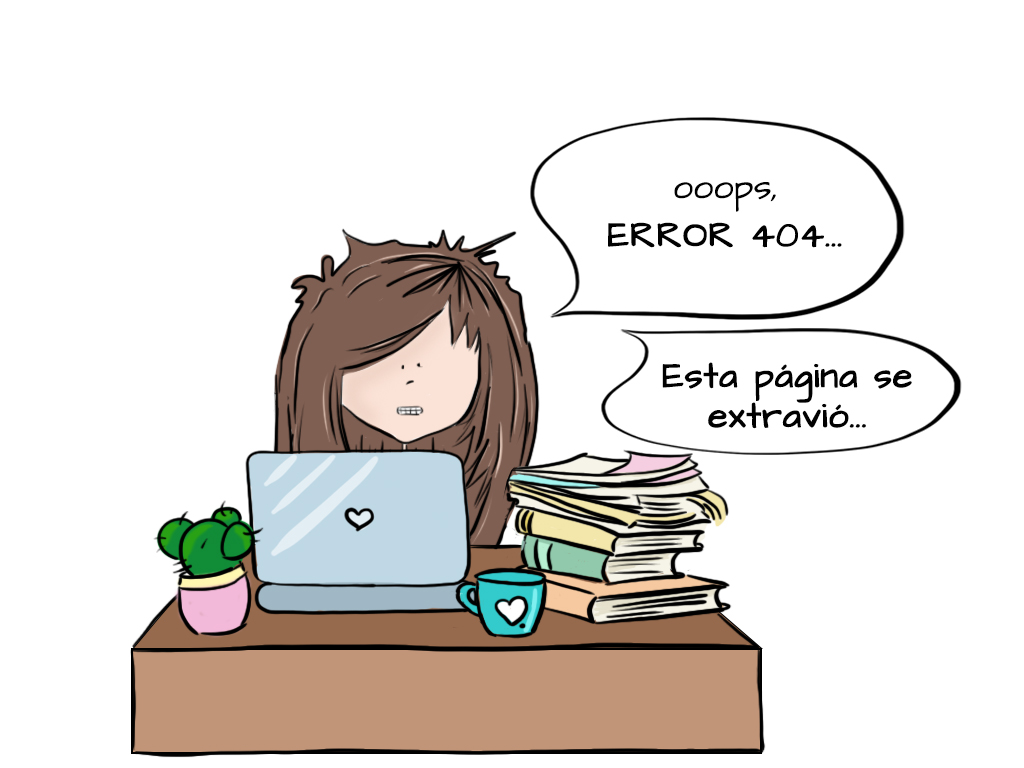
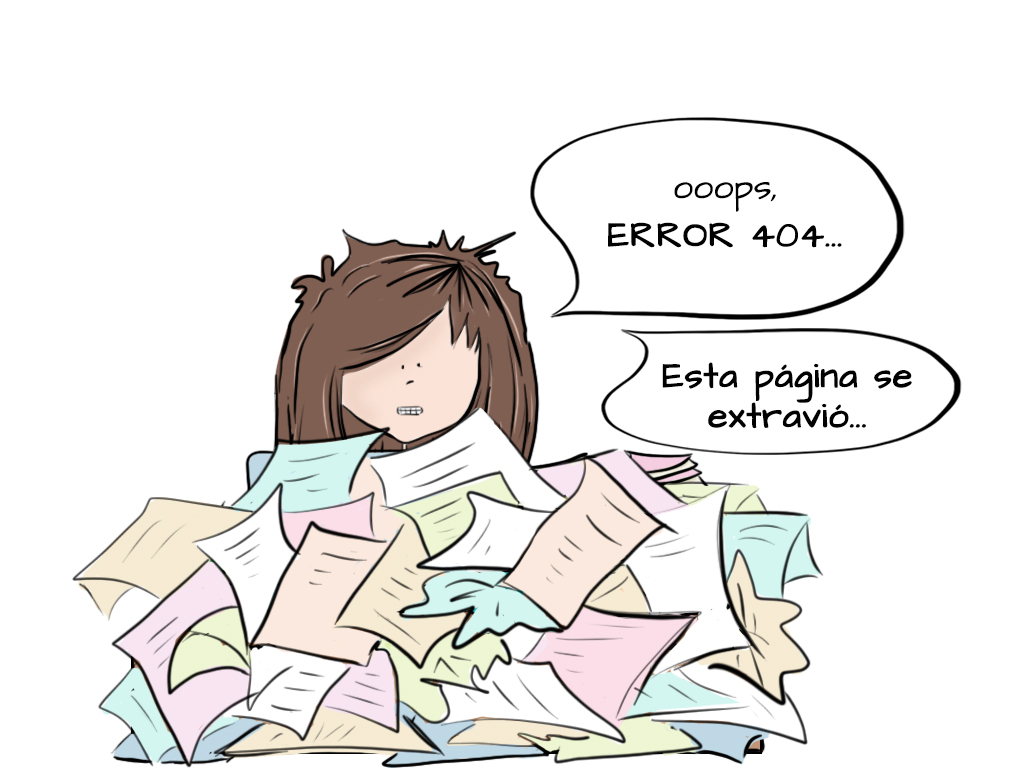
cambios en page errores

Changed region(s): [[0.0625, 0.5312, 0.8125, 1.0]]

diff --git a/page/error504.html b/page/error504.html
@@ -50,31 +50,14 @@
     <header id="errorPage">
         <div class="errorPage">
             <span>  <img class="error404" src="../img/mainIndex/error504.webp" alt="Ilustración donde se ve una chica con pelo largo marrón detras de un escritorio durmiendo. Se ven Zetas flotando en el aire y un globo de texto que dice error 504 "></span>
-            <a href="contacto.html" class="aError">Lamento que se este tardando.<br>Si piensas en dormir una siesta, buena idea!<br>Pero también puedes probar refrescar la página. <br> Contactame si el problema persiste.</br><br><span>Contacto</span></a>
-            <a href="../index.html" class="aError"> ó puedes volver al</br><br><span>Inicio</span></a>
+
+            <p>Lamento que se este tardando.<br>Si piensas en dormir una siesta, buena idea!<br>Pero también <strong>puedes probar refrescar la página.</strong> <br> Contactame si el problema persiste.</p>
+            <a href="contacto.html" class="aError"><span>Contacto</span></a>
+            <p>ó puedes volver al</p>
+            <a href="../index.html" class="aError"> <span>Inicio</span></a>
             
         </div>
 </header>
-<footer id="pie" >
-    <ul class="bgRosa"> 
-            <li>
-              <a href="contacto.html"> 
-                 <svg xmlns="http://www.w3.org/2000/svg" viewBox="0 0 16 16">
-                  <path d="M.05 3.555A2 2 0 0 1 2 2h12a2 2 0 0 1 1.95 1.555L8 8.414.05 3.555ZM0 4.697v7.104l5.803-3.558L0 4.697ZM6.761 8.83l-6.57 4.027A2 2 0 0 0 2 14h12a2 2 0 0 0 1.808-1.144l-6.57-4.027L8 9.586l-1.239-.757Zm3.436-.586L16 11.801V4.697l-5.803 3.546Z"/>
-                </svg>
-              </a>
-            </li>   
-            <li>
-              <a href="https://www.linkedin.com" target="_blank">
-                <svg xmlns="http://www.w3.org/2000/svg" class="bi bi-linkedin" viewBox="0 0 16 16">
-                <path d="M0 1.146C0 .513.526 0 1.175 0h13.65C15.474 0 16 .513 16 1.146v13.708c0 .633-.526 1.146-1.175 1.146H1.175C.526 16 0 15.487 0 14.854V1.146zm4.943 12.248V6.169H2.542v7.225h2.401zm-1.2-8.212c.837 0 1.358-.554 1.358-1.248-.015-.709-.52-1.248-1.342-1.248-.822 0-1.359.54-1.359 1.248 0 .694.521 1.248 1.327 1.248h.016zm4.908 8.212V9.359c0-.216.016-.432.08-.586.173-.431.568-.878 1.232-.878.869 0 1.216.662 1.216 1.634v3.865h2.401V9.25c0-2.22-1.184-3.252-2.764-3.252-1.274 0-1.845.7-2.165 1.193v.025h-.016a5.54 5.54 0 0 1 .016-.025V6.169h-2.4c.03.678 0 7.225 0 7.225h2.4z"/>
-                </svg>
-            </a>
-         </li> 
-         <li>by<img src="../img/principales/corazon-blanco.svg" alt="Un corazón blanco con un punto, firma artística"></li>
-    </ul>
-    
-</footer>
         <script src="https://cdn.jsdelivr.net/npm/bootstrap@5.3.0-alpha2/dist/js/bootstrap.bundle.min.js" integrity="sha384-qKXV1j0HvMUeCBQ+QVp7JcfGl760yU08IQ+GpUo5hlbpg51QRiuqHAJz8+BrxE/N" crossorigin="anonymous"></script>  
    
   </body>

diff --git a/page/error403.html b/page/error403.html
@@ -49,31 +49,12 @@
 
   <header id="errorPage">
         <div class="errorPage">
-            <span>  <img class="error404" src="../img/mainIndex/error403.jpg" alt="Ilustración donde se ve una chica con pelo largo marrón y con sombrero falso de policía, detras de un escritorio con un globo de conversación que dice: error 403, identificación por favor"></span>
-            <a href="../index.html" class="aError">Perdón, no tienes autorización para estar aquí, te invitamos a volver al <br><br><span>Inicio</span> 
+            <span>  <img class="error404" src="../img/mainIndex/error403.webp" alt="Ilustración donde se ve una chica con pelo largo marrón y con sombrero falso de policía, detras de un escritorio con un globo de conversación que dice: error 403, identificación por favor"></span>
+            <p>Perdón, no tienes autorización para estar aquí, te invitamos a volver al </p>
+            <a href="../index.html" class="aError"><span>Inicio</span> 
             </a>
         </div>
   </header>
-  <footer id="pie" >
-    <ul class="bgRosa"> 
-            <li>
-              <a href="contacto.html" subject="tengo%20una%20consulta"> 
-                 <svg xmlns="http://www.w3.org/2000/svg" viewBox="0 0 16 16">
-                  <path d="M.05 3.555A2 2 0 0 1 2 2h12a2 2 0 0 1 1.95 1.555L8 8.414.05 3.555ZM0 4.697v7.104l5.803-3.558L0 4.697ZM6.761 8.83l-6.57 4.027A2 2 0 0 0 2 14h12a2 2 0 0 0 1.808-1.144l-6.57-4.027L8 9.586l-1.239-.757Zm3.436-.586L16 11.801V4.697l-5.803 3.546Z"/>
-                </svg>
-              </a>
-            </li>   
-            <li>
-              <a href="https://www.linkedin.com" target="_blank">
-                <svg xmlns="http://www.w3.org/2000/svg" class="bi bi-linkedin" viewBox="0 0 16 16">
-                <path d="M0 1.146C0 .513.526 0 1.175 0h13.65C15.474 0 16 .513 16 1.146v13.708c0 .633-.526 1.146-1.175 1.146H1.175C.526 16 0 15.487 0 14.854V1.146zm4.943 12.248V6.169H2.542v7.225h2.401zm-1.2-8.212c.837 0 1.358-.554 1.358-1.248-.015-.709-.52-1.248-1.342-1.248-.822 0-1.359.54-1.359 1.248 0 .694.521 1.248 1.327 1.248h.016zm4.908 8.212V9.359c0-.216.016-.432.08-.586.173-.431.568-.878 1.232-.878.869 0 1.216.662 1.216 1.634v3.865h2.401V9.25c0-2.22-1.184-3.252-2.764-3.252-1.274 0-1.845.7-2.165 1.193v.025h-.016a5.54 5.54 0 0 1 .016-.025V6.169h-2.4c.03.678 0 7.225 0 7.225h2.4z"/>
-                </svg>
-            </a>
-         </li> 
-         <li>by<img src="../img/principales/corazon-blanco.svg" alt="Un corazón blanco con un punto, firma artística"></li>
-    </ul>
-    
-  </footer>
         <script src="https://cdn.jsdelivr.net/npm/bootstrap@5.3.0-alpha2/dist/js/bootstrap.bundle.min.js" integrity="sha384-qKXV1j0HvMUeCBQ+QVp7JcfGl760yU08IQ+GpUo5hlbpg51QRiuqHAJz8+BrxE/N" crossorigin="anonymous"></script>  
    
   </body>

diff --git a/page/error404.html b/page/error404.html
@@ -50,30 +50,12 @@
     <header id="errorPage">
         <div class="errorPage">
             <span>  <img class="error404" src="../img/mainIndex/error404.webp" alt="Ilustración donde se ve la cabeza de una chica con pelo largo marrón que se asoma debajo de una montaña de hojas de papel, con un globo de conversación que dice: error 404, esta página se extravió"></span>
-            <a href="../index.html" class="aError">Qué te parece volver al <br></br><span>Inicio</span></a>
+            <p>Qué te parece volver al</p>
+            <a href="../index.html" class="aError"><span>Inicio</span></a>
             
         </div>
 </header>
-<footer id="pie" >
-    <ul class="bgRosa"> 
-            <li>
-              <a href="contacto.html"> 
-                 <svg xmlns="http://www.w3.org/2000/svg" viewBox="0 0 16 16">
-                  <path d="M.05 3.555A2 2 0 0 1 2 2h12a2 2 0 0 1 1.95 1.555L8 8.414.05 3.555ZM0 4.697v7.104l5.803-3.558L0 4.697ZM6.761 8.83l-6.57 4.027A2 2 0 0 0 2 14h12a2 2 0 0 0 1.808-1.144l-6.57-4.027L8 9.586l-1.239-.757Zm3.436-.586L16 11.801V4.697l-5.803 3.546Z"/>
-                </svg>
-              </a>
-            </li>   
-            <li>
-              <a href="https://www.linkedin.com" target="_blank">
-                <svg xmlns="http://www.w3.org/2000/svg" class="bi bi-linkedin" viewBox="0 0 16 16">
-                <path d="M0 1.146C0 .513.526 0 1.175 0h13.65C15.474 0 16 .513 16 1.146v13.708c0 .633-.526 1.146-1.175 1.146H1.175C.526 16 0 15.487 0 14.854V1.146zm4.943 12.248V6.169H2.542v7.225h2.401zm-1.2-8.212c.837 0 1.358-.554 1.358-1.248-.015-.709-.52-1.248-1.342-1.248-.822 0-1.359.54-1.359 1.248 0 .694.521 1.248 1.327 1.248h.016zm4.908 8.212V9.359c0-.216.016-.432.08-.586.173-.431.568-.878 1.232-.878.869 0 1.216.662 1.216 1.634v3.865h2.401V9.25c0-2.22-1.184-3.252-2.764-3.252-1.274 0-1.845.7-2.165 1.193v.025h-.016a5.54 5.54 0 0 1 .016-.025V6.169h-2.4c.03.678 0 7.225 0 7.225h2.4z"/>
-                </svg>
-            </a>
-         </li> 
-         <li>by<img src="../img/principales/corazon-blanco.svg" alt="Un corazón blanco con un punto, firma artística"></li>
-    </ul>
-    
-</footer>
+
         <script src="https://cdn.jsdelivr.net/npm/bootstrap@5.3.0-alpha2/dist/js/bootstrap.bundle.min.js" integrity="sha384-qKXV1j0HvMUeCBQ+QVp7JcfGl760yU08IQ+GpUo5hlbpg51QRiuqHAJz8+BrxE/N" crossorigin="anonymous"></script>  
    
   </body>

diff --git a/scss/_comunes.scss b/scss/_comunes.scss
@@ -121,18 +121,21 @@ header {
 .contenedorTestimonios{
     @include contenedor($width98, auto, 0px, 0px, 0px, flex, row, center, center);
     margin-left: 3px;
+    
 
     .testimonios{
         @include contenedor($width100, auto, none, none, none, flex, column, center, center);
         background-color: map-get($map: $colores, $key:'once' );
         border-radius: 10px;
         margin-left: 20px !important;
+       
     }
         .h2Testimonios{
         @extend h2;
             font-family: $fontSecundaria;
             font-size: $textLg; 
-            margin-bottom: 15px;    
+            margin-bottom: 15px;  
+              
         }
 
     }
@@ -211,6 +214,11 @@ footer{
         justify-content: center;
         align-items: center;
         }
+        p{
+            margin-top: 20px;
+            margin-bottom: -20px;
+            line-height: $textLg;
+        }
 }
 
 .aError{
@@ -225,6 +233,7 @@ footer{
                 &:hover{
                     color: map-get($map: $colores, $key:'ocho' );
                 }
+               
                 span{
                     @include  texto($fontPrincipal, $textSxx, $fontRegular, $textXl, map-get($map: $colores, $key:'siete' ), center );
 

diff --git a/css/style.css b/css/style.css
@@ -274,6 +274,11 @@ footer ul li svg:hover {
   justify-content: center;
   align-items: center;
 }
+.errorPage p {
+  margin-top: 20px;
+  margin-bottom: -20px;
+  line-height: 2em;
+}
 
 .aError {
   font-family: "Josefin Sans", sans-serif;
@@ -493,7 +498,7 @@ footer ul li svg:hover {
   list-style: none;
   padding-left: 10px;
   margin: 0;
-  animation: animateHerramientas 13s infinite;
+  animation: animateHerramientas 5s infinite;
 }
 .presentacionHerramientas .animateSobreMi .cambiar .titulo {
   font-size: 1.5em;
@@ -564,11 +569,11 @@ footer ul li svg:hover {
 
 @media (max-width: 800px) {
   .error404 {
-    width: 270px !important;
+    width: 320px !important;
     justify-content: center;
     align-items: center;
     margin-top: 0px;
-    margin-left: -10px;
+    margin-left: -25px;
   }
   .aError {
     font-family: "Josefin Sans", sans-serif;
@@ -728,7 +733,7 @@ footer ul li svg:hover {
     border: none !important;
   }
   .presentacionHerramientas .animateSobreMi {
-    width: 280px;
+    width: 290px;
     height: 60px;
     margin: auto;
     padding: 0;

diff --git a/scss/_media.scss b/scss/_media.scss
@@ -3,11 +3,11 @@
     //ERRORES 404 403 504
 
 .error404{
-    width: 270px !important;
+    width: 320px !important;
     justify-content: center;
     align-items: center;
     margin-top: 0px;
-    margin-left: -10px;
+    margin-left: -25px;
     }
 .aError{
             
@@ -26,7 +26,7 @@
                 margin: 0px 30px;
                 margin-top: 40px;
             }
-            
+
     // GENERALES
 .grid{
     width:$width100;
@@ -140,7 +140,7 @@
             @extend .presentacion;
             border: none !important;
             .animateSobreMi{
-                @include contenedor(280px, 60px, auto, 0, 0, flex, column, none, none);
+                @include contenedor(290px, 60px, auto, 0, 0, flex, column, none, none);
                 margin-left: -10px;
                 @include texto($fontPrincipal, none, $fontRegular, $textLg,map-get($map: $colores, $key:'diez' ), none);
         

diff --git a/scss/_animaciones.scss b/scss/_animaciones.scss
@@ -15,7 +15,7 @@
             list-style: none;
             padding-left: 10px;
             margin: 0;
-            animation: animateHerramientas 13s infinite;
+            animation: animateHerramientas 5s infinite;
             .titulo{
                 font-size: $textMd;
                 font-family: $fontSecundaria;
